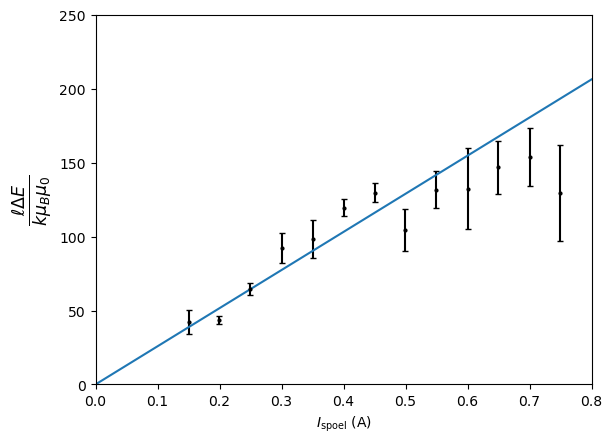
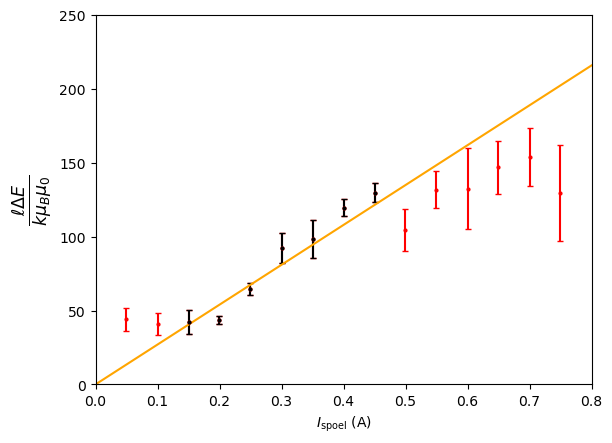
fit cooler maken

diff --git a/meting2.py b/meting2.py
@@ -137,54 +137,59 @@ def try_fit(m_Fl, m_Fr):
         (energies_err / energies) ** 2 + (const_err / const) ** 2
     )
 
-    # remove first 2 values
-    lin_vals = list(lin_vals[2:])
-    lin_vals_err = list(lin_vals_err[2:])
+    lin_vals = list(lin_vals)
+    lin_vals_err = list(lin_vals_err)
 
     # combine duplicate current measurements 3,4 and 7,8 (in the worst possible way)
-    lin_vals_err[2] = np.sqrt(lin_vals_err[2]**2 + lin_vals_err[3]**2)/2
-    lin_vals[2] = (lin_vals[2] + lin_vals[3])/2
-    lin_vals_err[6] = np.sqrt(lin_vals_err[6]**2 + lin_vals_err[7]**2)/2
-    lin_vals[6] = (lin_vals[6] + lin_vals[7])/2
+    lin_vals_err[4] = np.sqrt(lin_vals_err[4]**2 + lin_vals_err[5]**2)/2
+    lin_vals[4] = (lin_vals[4] + lin_vals[5])/2
+    lin_vals_err[8] = np.sqrt(lin_vals_err[8]**2 + lin_vals_err[9]**2)/2
+    lin_vals[8] = (lin_vals[8] + lin_vals[9])/2
 
-    lin_vals.remove(lin_vals[3])
-    lin_vals_err.remove(lin_vals_err[3])
-    lin_vals.remove(lin_vals[7])
-    lin_vals_err.remove(lin_vals_err[7])
+    lin_vals.remove(lin_vals[5])
+    lin_vals_err.remove(lin_vals_err[5])
+    lin_vals.remove(lin_vals[9])
+    lin_vals_err.remove(lin_vals_err[9])
     current_df.drop_duplicates(inplace=True)
 
-    lin_vals = np.array(lin_vals)
-    lin_vals_err = np.array(lin_vals_err)
+    # remove first 2 and last 6 values
+    lin_vals_filtered = np.array(lin_vals[2:len(lin_vals) - 6])
+    lin_vals_err_filtered = np.array(lin_vals_err[2:len(lin_vals_err) - 6])
 
     lin_func = lambda I, N: I * N
 
     model = models.Model(lin_func)
 
-    print(current_df)
-    print(lin_vals)
-    print(lin_vals_err)
-
     fit = model.fit(
-        data=lin_vals,
-        I=current_df["current"][2:],
-        weights=1 / lin_vals_err,
+        data=lin_vals_filtered,
+        I=current_df["current"][2:len(current_df["current"]) - 6],
+        weights=1 / lin_vals_err_filtered,
         N=200,
     )
     print(fit.fit_report())
+
     if m_Fl == 2 and m_Fr == 2:
         plt.errorbar(
-            x=current_df["current"][2:],
+            x=current_df["current"],
             y=lin_vals,
             yerr=lin_vals_err,
             fmt="o",
+            c="red",
+            ms=2,
+            capsize=2
+        )
+        plt.errorbar(
+            x=current_df["current"][2:len(current_df["current"]) - 6],
+            y=lin_vals_filtered,
+            yerr=lin_vals_err_filtered,
+            fmt="o",
             c="black",
             ms=2,
-            capsize=2,
-            label="data",
+            capsize=2
         )
         plt.xlabel(r"$I_{\mathrm{spoel}}$ (A)")
         plt.ylabel(r"$\frac{\ell \Delta E}{k \mu_B \mu_0}$", fontsize=18)
-        plt.plot([0, 0.8], [0, 0.8 * fit.params["N"].value], label="best fit")
+        plt.plot([0, 0.8], [0, 0.8 * fit.params["N"].value], color="orange")
         plt.xlim(0, 0.8)
         plt.ylim(0, 250)
         plt.savefig("fit.png", bbox_inches = "tight")
